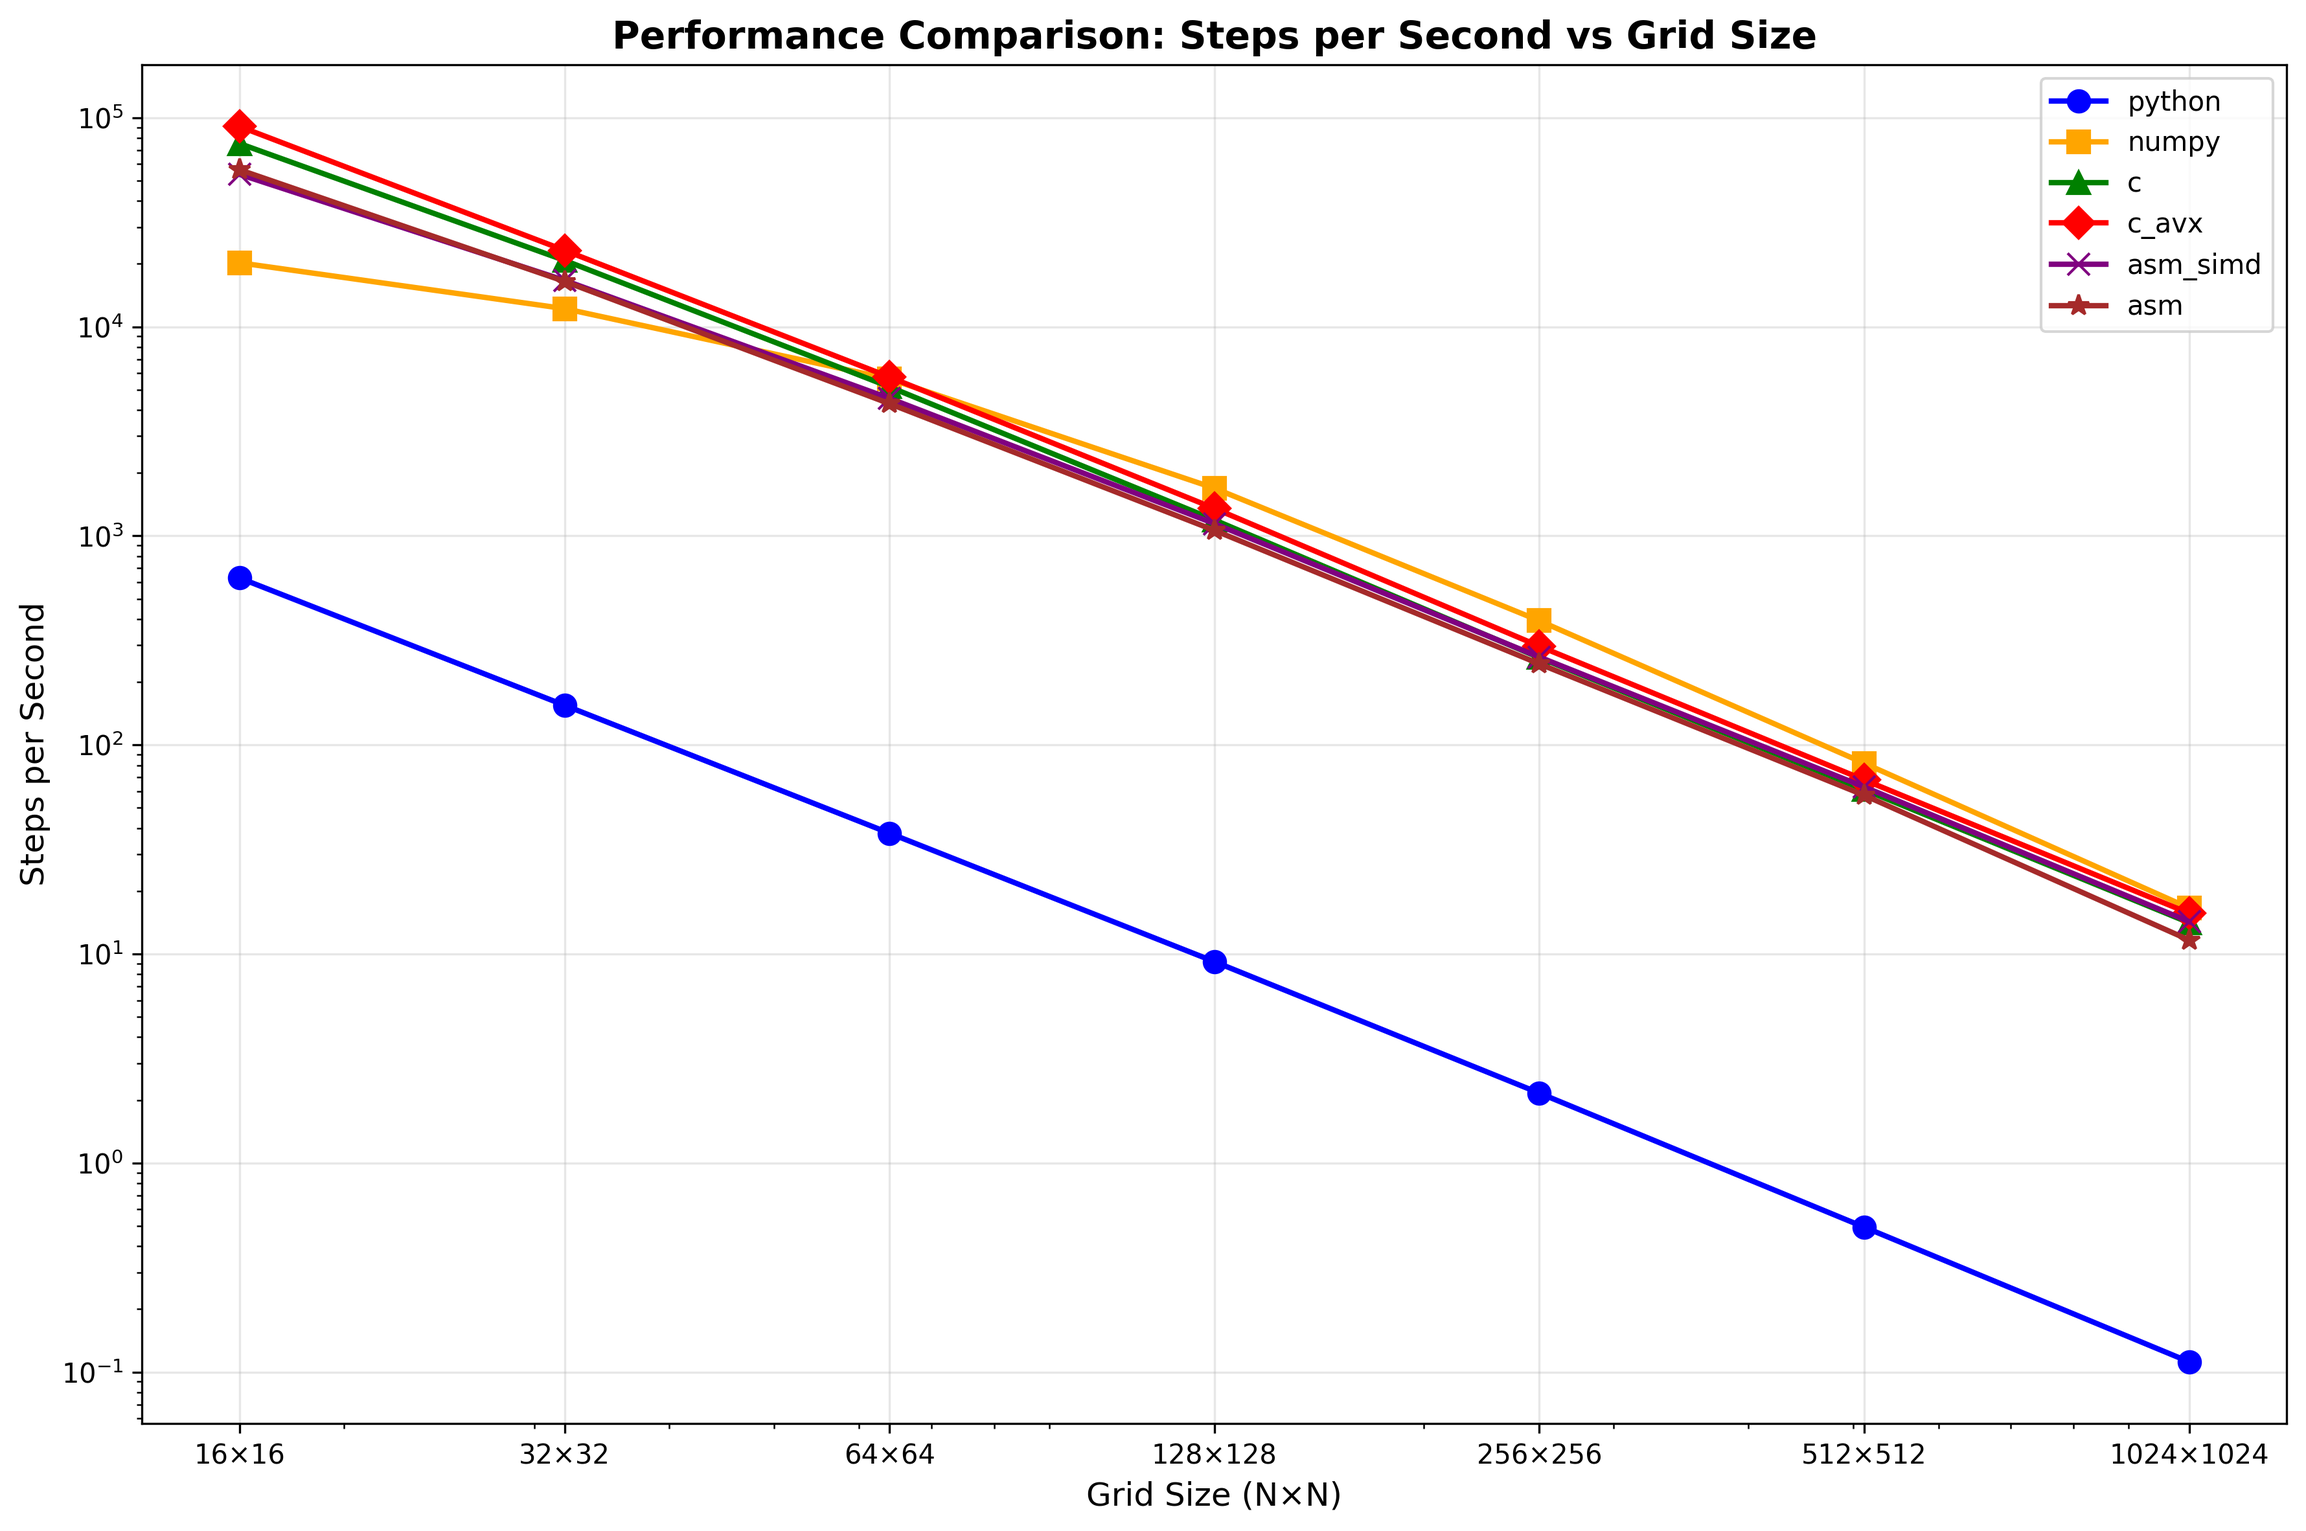
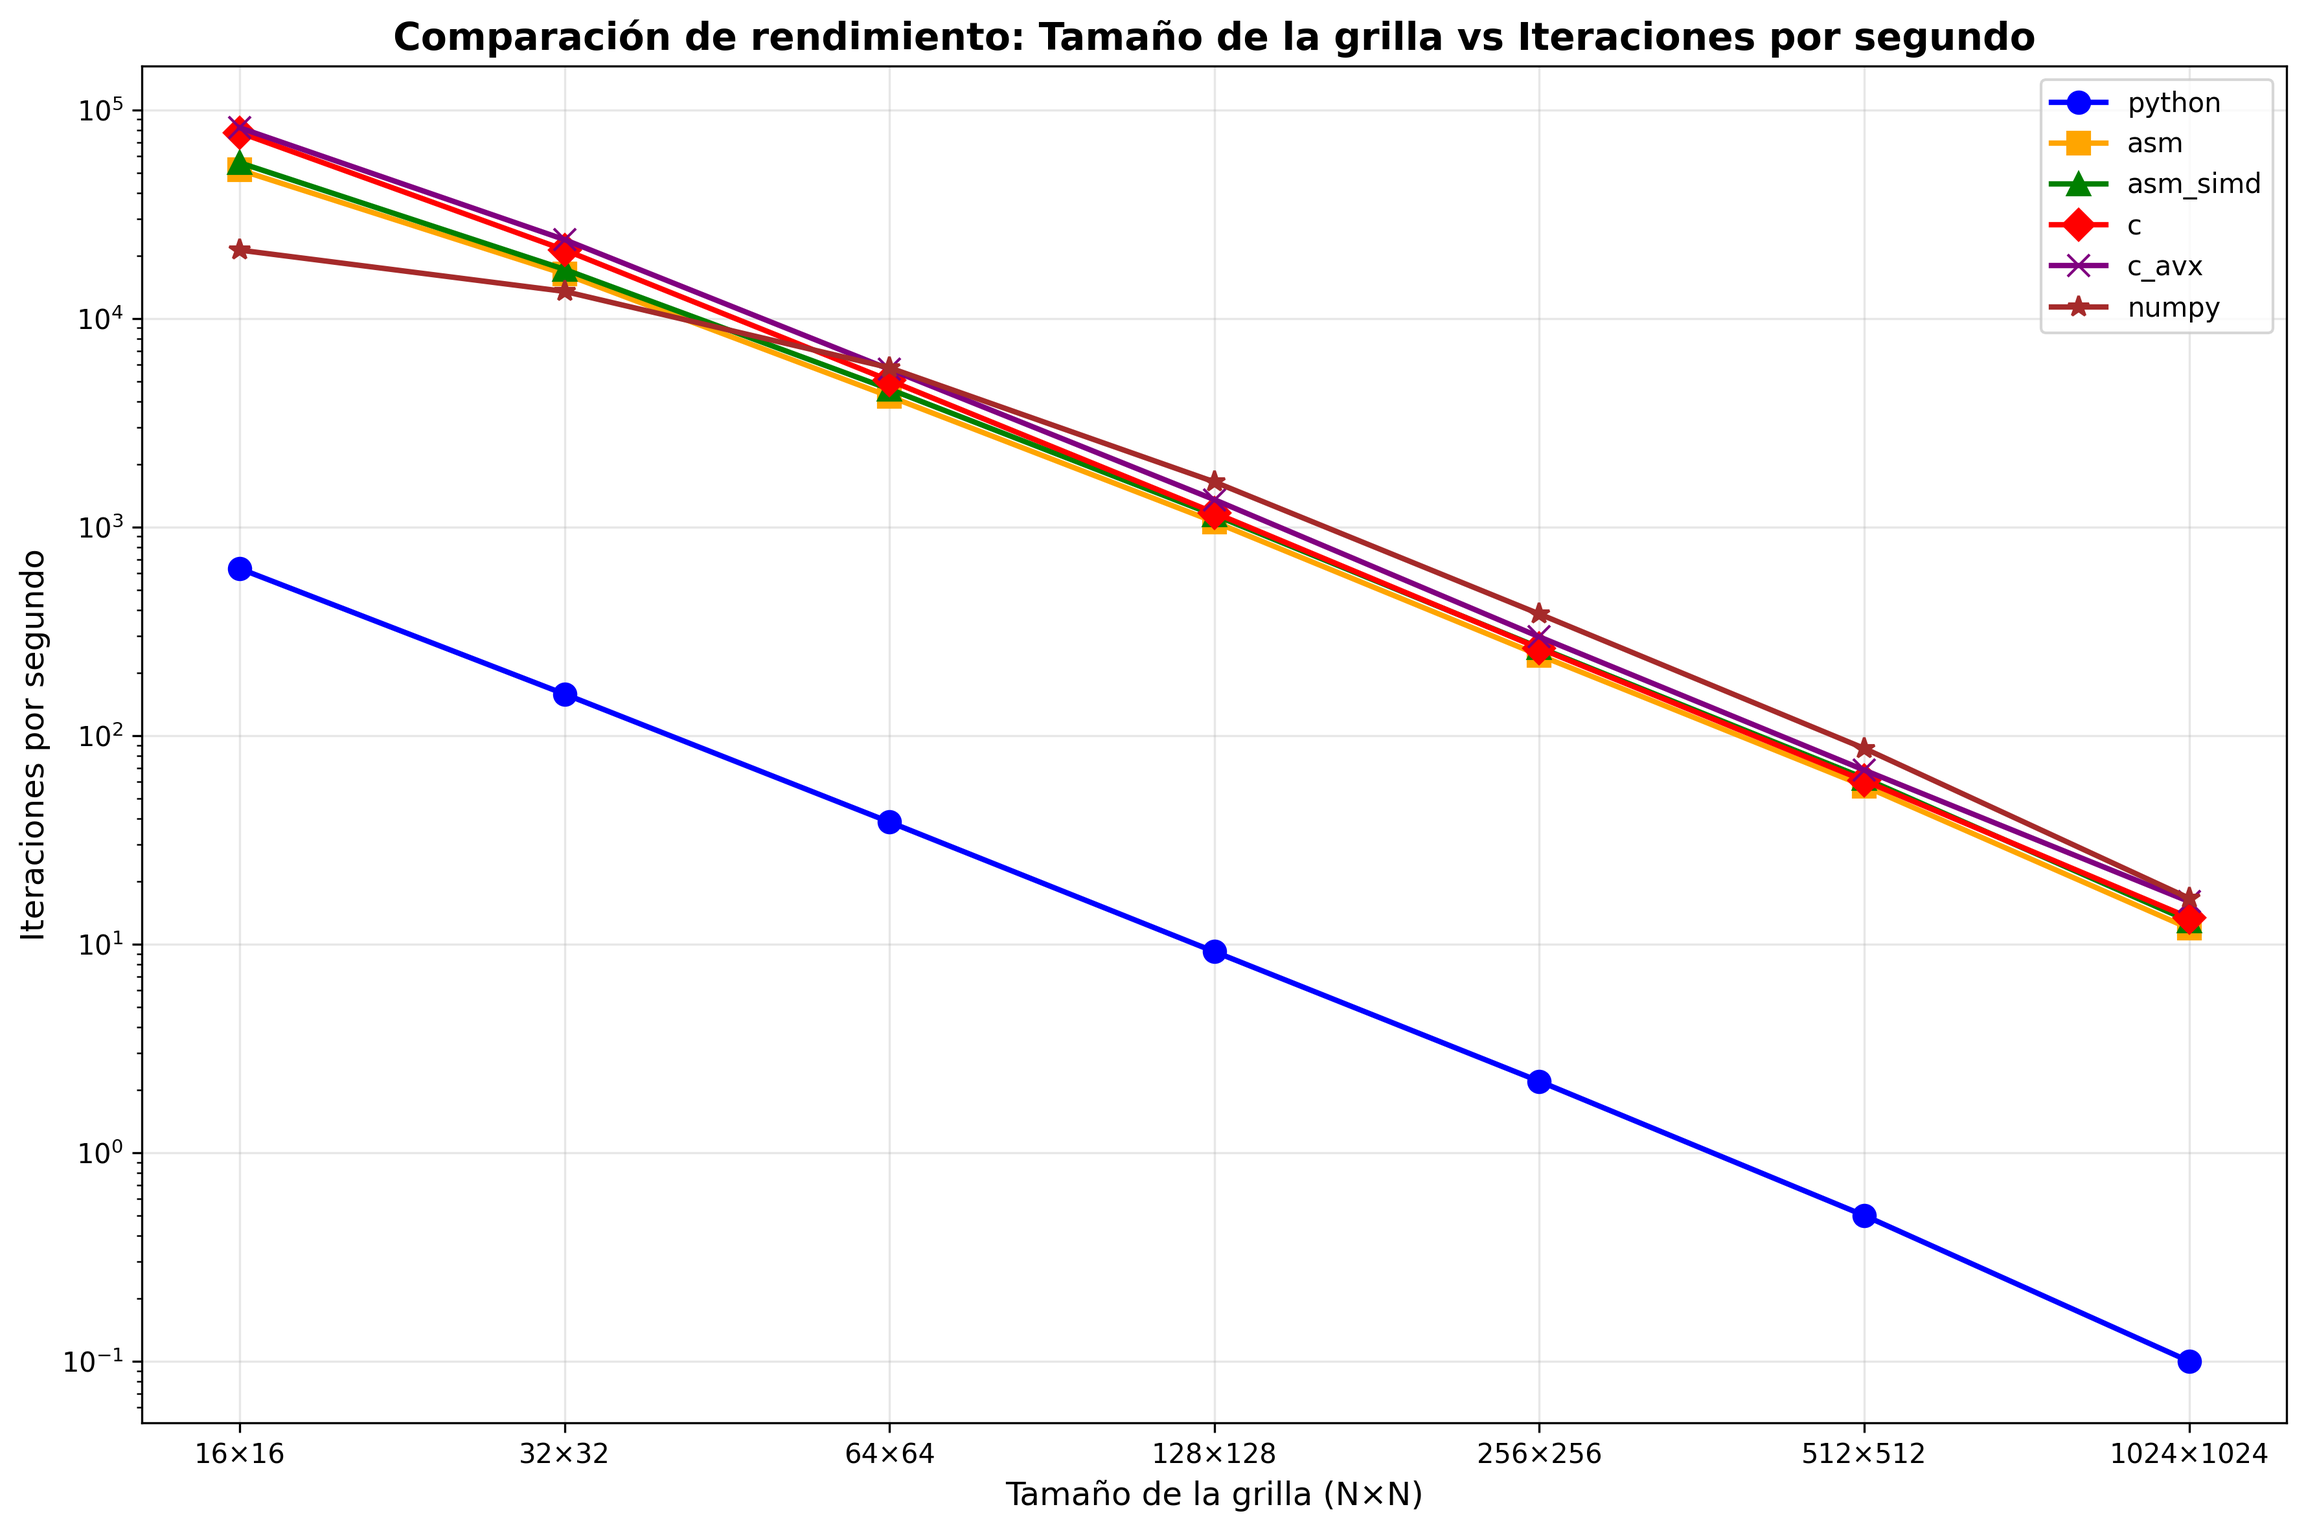
benchmark final

diff --git a/benchmark.py b/benchmark.py
@@ -1,8 +1,3 @@
-#!/usr/bin/env python3
-"""
-Performance benchmark for different wave simulation backends
-"""
-
 import time
 import matplotlib
 import matplotlib.pyplot as plt
@@ -20,202 +15,192 @@ from backends.wave_simulation_asm_simd import ASMSIMDWaveSimulation2D
 
 
 def benchmark_backend(backend_name, size=64, steps=100):
-    """Benchmark a specific backend"""
     print(f"\nBenchmarking {backend_name} backend...")
     print(f"Grid size: {size}x{size}, Steps: {steps}")
 
-    try:
-        # Create simulation
-        start_time = time.time()
-        if backend_name == "numpy":
-            sim = NumpyWaveSimulation2D(size=size, domain_size=8.0, wave_speed=2.0, dt=0.02)
-        elif backend_name == "python":
-            sim = PythonWaveSimulation2D(size=size, domain_size=8.0, wave_speed=2.0, dt=0.02)
-        elif backend_name == "c":
-            sim = CWaveSimulation2D(size=size, domain_size=8.0, wave_speed=2.0, dt=0.02)
-        elif backend_name == "c_avx":
-            sim = OptimizedCWaveSimulation2D(size=size, domain_size=8.0, wave_speed=2.0, dt=0.02)
-        elif backend_name == "asm":
-            sim = ASMWaveSimulation2D(size=size, domain_size=8.0, wave_speed=2.0, dt=0.02)
-        elif backend_name == "asm_simd":
-            sim = ASMSIMDWaveSimulation2D(size=size, domain_size=8.0, wave_speed=2.0, dt=0.02)
-        else:
-            raise ImportError(f"Unknown backend: {backend_name}")
-
-        init_time = time.time() - start_time
-
-        # Add a wave source
-        sim.add_wave_source(0, 0, amplitude=1.0, frequency=3.0)
-
-        # Run simulation steps
-        start_time = time.time()
-        for i in range(steps):
-            sim.step()
-            if (i + 1) % 20 == 0:
-                print(f"  Step {i + 1}/{steps}")
-
-        simulation_time = time.time() - start_time
-
-        # Calculate metrics
-        steps_per_second = steps / simulation_time
-
-        print(f"Results for {backend_name}:")
-        print(f"  Initialization time: {init_time:.3f}s")
-        print(f"  Simulation time: {simulation_time:.3f}s")
-        print(f"  Steps per second: {steps_per_second:.1f}")
-
-        return {
-            "backend": backend_name,
-            "init_time": init_time,
-            "simulation_time": simulation_time,
-            "steps_per_second": steps_per_second,
-        }
-
-    except ImportError as e:
-        print(f"  ERROR: {backend_name} backend not available - {e}")
-        return None
-    except Exception as e:
-        print(f"  ERROR: Failed to benchmark {backend_name} - {e}")
-        return None
-
-
-print("Wave Simulation Backend Performance Benchmark")
-print("=" * 50)
-
-backends = ["python", "numpy", "c", "c_avx", "asm_simd", "asm"]
-sizes = [16, 32, 64, 128, 256, 512, 1024]
-steps = 20
-
-results = {}
-
-for size in sizes:
-    print(f"\n{'='*20} GRID SIZE {size}x{size} {'='*20}")
-    results[size] = {}
-
-    for backend in backends:
-        result = benchmark_backend(backend, size=size, steps=steps)
-        if result:
-            results[size][backend] = result
-
-# Print summary
-print(f"\n{'='*20} PERFORMANCE SUMMARY {'='*20}")
-
-for size in sizes:
-    print(f"\nGrid Size {size}x{size}:")
-    print(f"{'Backend':<10} {'Steps/sec':<12} {'Speedup':<8}")
-    print("-" * 35)
-
-    if "numpy" in results[size]:
-        numpy_sps = results[size]["numpy"]["steps_per_second"]
+    start_time = time.time()
+    if backend_name == "numpy":
+        sim = NumpyWaveSimulation2D(size=size, domain_size=8.0, wave_speed=2.0, dt=0.02)
+    elif backend_name == "python":
+        sim = PythonWaveSimulation2D(size=size, domain_size=8.0, wave_speed=2.0, dt=0.02)
+    elif backend_name == "c":
+        sim = CWaveSimulation2D(size=size, domain_size=8.0, wave_speed=2.0, dt=0.02)
+    elif backend_name == "c_avx":
+        sim = OptimizedCWaveSimulation2D(size=size, domain_size=8.0, wave_speed=2.0, dt=0.02)
+    elif backend_name == "asm":
+        sim = ASMWaveSimulation2D(size=size, domain_size=8.0, wave_speed=2.0, dt=0.02)
+    elif backend_name == "asm_simd":
+        sim = ASMSIMDWaveSimulation2D(size=size, domain_size=8.0, wave_speed=2.0, dt=0.02)
     else:
-        numpy_sps = None
+        raise ImportError(f"Unknown backend: {backend_name}")
+
+    init_time = time.time() - start_time
+
+    # Add a wave source
+    sim.add_wave_source(0, 0, amplitude=1.0, frequency=3.0)
+
+    # Run simulation steps
+    start_time = time.time()
+    for i in range(steps):
+        sim.step()
+        if (i + 1) % 20 == 0:
+            print(f"  Step {i + 1}/{steps}")
+
+    simulation_time = time.time() - start_time
+
+    # Calculate metrics
+    steps_per_second = steps / simulation_time
+
+    print(f"Results for {backend_name}:")
+    print(f"  Initialization time: {init_time:.3f}s")
+    print(f"  Simulation time: {simulation_time:.3f}s")
+    print(f"  Steps per second: {steps_per_second:.1f}")
+
+    return {
+        "backend": backend_name,
+        "init_time": init_time,
+        "simulation_time": simulation_time,
+        "steps_per_second": steps_per_second,
+    }
+
+
+def create_performance_dataframe(backends, sizes, steps=20):
+    df = pd.DataFrame(index=backends, columns=sizes, dtype=float)
 
     for backend in backends:
-        if backend in results[size]:
-            result = results[size][backend]
-            sps = result["steps_per_second"]
+        for size in sizes:
+            result = benchmark_backend(backend, size=size, steps=steps)
+            df.loc[backend, size] = result["steps_per_second"]
 
-            if numpy_sps and backend != "numpy":
-                speedup = f"{sps/numpy_sps:.1f}x"
-            elif backend == "numpy":
+    return df
+
+
+def print_performance_summary(df):
+    print(f"\n{'='*20} PERFORMANCE SUMMARY {'='*20}")
+
+    for size in df.columns:
+        print(f"\nGrid Size {size}x{size}:")
+        print(f"{'Backend':<10} {'Steps/sec':<12} {'Speedup':<8}")
+        print("-" * 35)
+
+        numpy_sps = df.loc["numpy", size]
+        size_data = df[size].sort_values(ascending=False, na_position="last")
+
+        for backend in size_data.index:
+            sps = size_data[backend]
+
+            if backend == "numpy":
                 speedup = "baseline"
             else:
-                speedup = "N/A"
+                speedup = f"{sps/numpy_sps:.1f}x"
 
             print(f"{backend:<10} {sps:<12.1f} {speedup:<8}")
-        else:
-            print(f"{backend:<10} {'FAILED':<12} {'N/A':<8}")
 
-# Save results to CSV
-print(f"\n{'='*20} SAVING RESULTS TO CSV {'='*20}")
 
-# Ensure results directory exists
-os.makedirs("/home/joacopolo/Documents/tp-final-orga2/results", exist_ok=True)
+def save_results_to_csv(df, output_dir="/home/joacopolo/Documents/tp-final-orga2/results"):
+    os.makedirs(output_dir, exist_ok=True)
+    csv_path = os.path.join(output_dir, "table_of_results.csv")
 
-# Create DataFrame with results
-data = {}
-for backend in backends:
-    data[backend] = []
-    for size in sizes:
-        if backend in results[size]:
-            sps = results[size][backend]["steps_per_second"]
-            data[backend].append(sps)
-        else:
-            data[backend].append(None)
+    # Sort by performance on largest size (descending)
+    largest_size = df.columns[-1]
+    df.sort_values(by=largest_size, na_position="last").round(1).to_csv(
+        csv_path, index_label="Method"
+    )
 
-# Create DataFrame
-df = pd.DataFrame(data, index=[f"{size}x{size}" for size in sizes])
+    print(f"Results saved to {csv_path}")
+    return csv_path
 
-# Transpose so methods are rows and sizes are columns
-df = df.T
 
-# Sort by performance on largest size (descending)
-largest_size_col = df.columns[-1]
-df = df.sort_values(by=largest_size_col, na_position="last")
+def create_performance_plots(df, output_dir="/home/joacopolo/Documents/tp-final-orga2/results"):
+    print(f"\n{'='*20} GENERATING PLOTS {'='*20}")
 
-# Format the data for display (round to 1 decimal place, replace NaN with "FAILED")
-df_formatted = df.round(1).fillna("FAILED")
+    # Ensure results directory exists
+    os.makedirs(output_dir, exist_ok=True)
 
-# Save to CSV
-df_formatted.to_csv("/home/joacopolo/Documents/tp-final-orga2/results/table_of_results.csv", index_label="Method")
+    # Plot 1: Steps per second (all sizes, all backends)
+    plt.figure(figsize=(12, 8))
+    colors = ["blue", "orange", "green", "red", "purple", "brown"]
+    markers = ["o", "s", "^", "D", "x", "*", "P"]
 
-print("Results saved to results/table_of_results.csv")
-
-# Create plots
-print(f"\n{'='*20} GENERATING PLOTS {'='*20}")
-
-# Prepare data for plotting
-plot_sizes = []
-plot_data = {backend: {"steps_per_sec": []} for backend in backends}
-
-for size in sizes:
-    if results[size]:  # Only include sizes that have results
-        plot_sizes.append(size)
-        for backend in backends:
-            if backend in results[size]:
-                plot_data[backend]["steps_per_sec"].append(results[size][backend]["steps_per_second"])
-            else:
-                # Use NaN for failed backends to maintain array alignment
-                plot_data[backend]["steps_per_sec"].append(np.nan)
-
-# Plot 1: Steps per second
-plt.figure(figsize=(12, 8))
-colors = ["blue", "orange", "green", "red", "purple", "brown"]
-markers = ["o", "s", "^", "D", "x", "*", "P"]
-
-for i, backend in enumerate(backends):
-    steps_data = plot_data[backend]["steps_per_sec"]
-    # Only plot if we have valid data
-    valid_indices = ~np.isnan(steps_data)
-    if np.any(valid_indices):
-        valid_sizes = np.array(plot_sizes)[valid_indices]
-        valid_steps = np.array(steps_data)[valid_indices]
+    for i, backend in enumerate(df.index):
         plt.plot(
-            valid_sizes,
-            valid_steps,
-            marker=markers[i],
-            color=colors[i],
+            np.log(df.columns),
+            df.loc[backend].values,
+            marker=markers[i % len(markers)],
+            color=colors[i % len(colors)],
             linewidth=2,
             markersize=8,
             label=backend,
         )
 
-plt.xlabel("Grid Size (N×N)", fontsize=12)
-plt.ylabel("Steps per Second", fontsize=12)
-plt.title("Performance Comparison: Steps per Second vs Grid Size", fontsize=14, fontweight="bold")
-plt.legend(fontsize=10)
-plt.grid(True, alpha=0.3)
-plt.yscale("log")
-plt.xscale("log")
-plt.xticks(plot_sizes, [f"{s}×{s}" for s in plot_sizes])
-plt.tight_layout()
-plt.savefig(
-    "/home/joacopolo/Documents/tp-final-orga2/results/steps_per_second.png",
-    dpi=300,
-    bbox_inches="tight",
-)
-plt.close()
+    plt.xlabel("Tamaño de la grilla (N×N)", fontsize=12)
+    plt.ylabel("Iteraciones por segundo", fontsize=12)
+    plt.title(
+        "Comparación de rendimiento: Tamaño de la grilla vs Iteraciones por segundo",
+        fontsize=14,
+        fontweight="bold",
+    )
+    plt.legend(fontsize=10)
+    plt.grid(True, alpha=0.3)
+    plt.xticks(np.log(df.columns), [f"{s}×{s}" for s in df.columns])
+    plt.yscale("log")
+    plt.tight_layout()
+    plot_path = os.path.join(output_dir, "steps_per_second.png")
+    plt.savefig(plot_path, dpi=300, bbox_inches="tight")
+    plt.close()
+
+    # Plot 2: Only 3 largest sizes, excluding 'python'
+    largest_sizes = df.columns[-3:]
+    backends_no_python = [b for b in df.index if b != "python"]
+
+    plt.figure(figsize=(10, 6))
+    for i, backend in enumerate(backends_no_python):
+        plt.plot(
+            np.log(largest_sizes),
+            df.loc[backend, largest_sizes].values,
+            marker=markers[i % len(markers)],
+            color=colors[i % len(colors)],
+            linewidth=2,
+            markersize=8,
+            label=backend,
+        )
+
+    plt.xlabel("Tamaño de la grilla (N×N)", fontsize=12)
+    plt.ylabel("Iteraciones por segundo", fontsize=12)
+    plt.title(
+        "Top 3 tamaños de grilla (sin Python): Rendimiento",
+        fontsize=14,
+        fontweight="bold",
+    )
+    plt.legend(fontsize=10)
+    plt.grid(True, alpha=0.3)
+    plt.xticks(np.log(largest_sizes), [f"{s}×{s}" for s in largest_sizes])
+    plt.yscale("log")
+    plt.tight_layout()
+
+    plot_path_top3 = os.path.join(output_dir, "steps_per_second_top3.png")
+    plt.savefig(plot_path_top3, dpi=300, bbox_inches="tight")
+    plt.close()
+
+    return plot_path
 
 
-print("Plots saved to results/ directory:")
-print("- steps_per_second.png")
+if __name__ == "__main__":
+    backends = ["python", "numpy", "c", "c_avx", "asm_simd", "asm"]
+    sizes = [16, 32, 64, 128, 256, 512, 1024]
+    steps = 50
+
+    if not os.path.exists("results/table_of_results.csv"):
+        df = create_performance_dataframe(backends, sizes, steps)
+    else:
+        df = pd.read_csv("results/table_of_results.csv", index_col="Method")
+        df.columns = [int(col) for col in df.columns]
+
+    print_performance_summary(df)
+
+    save_results_to_csv(df)
+
+    create_performance_plots(df)
+
+    print(f"\n{'='*20} BENCHMARK COMPLETE {'='*20}")
+    print("All results saved to results/ directory")
